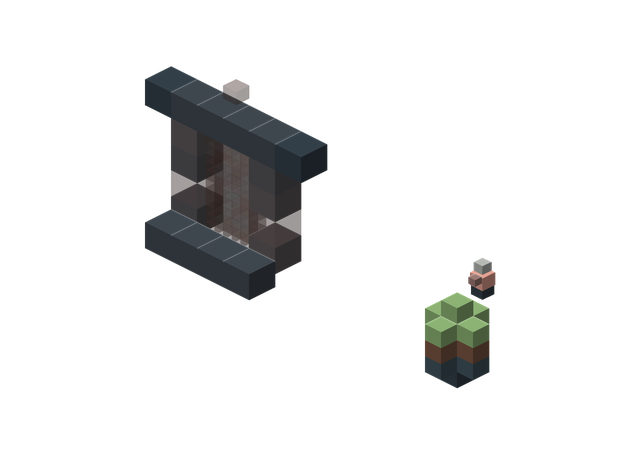
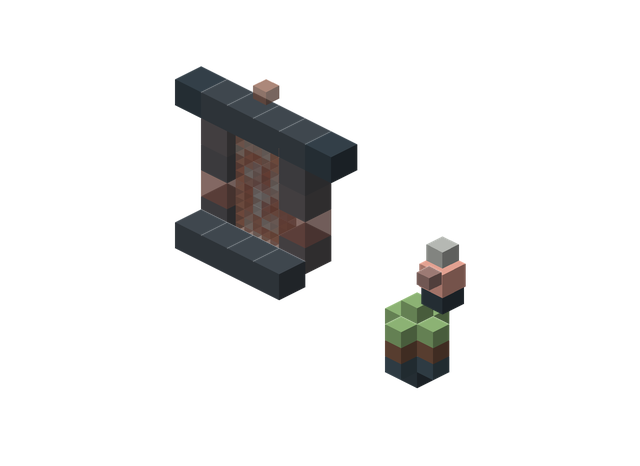
fix(docs): make the 404 page a real full-bleed scene
.mf-404__void was an inset panel scoped to the page's own 32rem column, not
a real backdrop - in light mode a dark slab dropped into a white page, which
read as a failed embed. It is now position: fixed, inset: 0, reaching the
actual viewport edges in either theme.

The art itself was dim by design (gate rim mixed 75% toward void at alpha
110) and the figure was undersized (roughly 10px) and off-centre; the gate
now stays legible (40% toward void, alpha 190) and the figure is scaled up
and pulled closer to the gate so the scene reads as one group instead of two
separate small props.

Changed region(s): [[0.2188, 0.1202, 0.5625, 0.6609], [0.5938, 0.5107, 0.7812, 0.8412]]

diff --git a/docfx/templates/manifold/public/main.css b/docfx/templates/manifold/public/main.css
@@ -1215,15 +1215,17 @@ article > h1:first-child::before {
   overflow: hidden;
 }
 /* Falling out of the world means falling into the void, in either theme: the backdrop stays the
-   dark hero art regardless of data-bs-theme, so this one page doesn't need a light variant. */
+   dark hero art regardless of data-bs-theme, so this one page doesn't need a light variant.
+   position: fixed + inset: 0, not an inset panel scoped to .mf-404's own 32rem column: a "full
+   scene" backdrop has to reach the actual edges of the viewport, not sit as a dark slab dropped
+   into the page (most visible in light mode, where it read as a failed embed). */
 .mf-404__void {
-  position: absolute;
-  inset: -4rem;
+  position: fixed;
+  inset: 0;
   z-index: -1;
   /* bottom 100%: hero-bg fades from a lit top to the void at its base; showing only that base
      keeps this page dark and the text readable, in either site theme. */
   background: var(--mf-void) url('../assets/site/hero-bg.webp') center bottom / cover;
-  border-radius: var(--mf-radius);
 }
 .mf-404__void::after {
   content: '';
@@ -1232,8 +1234,8 @@ article > h1:first-child::before {
   background: rgba(14, 17, 22, 0.35);
 }
 .mf-404__art {
-  width: 320px;
-  height: 233px;
+  width: 420px;
+  height: 306px;
   margin: 0 auto 1.5rem;
   animation: mf-float 7s ease-in-out infinite;
 }

diff --git a/docs/assets/site/generate.py b/docs/assets/site/generate.py
@@ -321,7 +321,7 @@ def divider_frame(t, line):
 # ---------------------------------------------------------------- 404
 
 def closed_gate_voxels(rng):
-    """The gate's stonework, with every glow dimmed to void and its drifting sparks dropped."""
+    """The gate's stonework, dimmed but still legible (not all the way to void), sparks dropped."""
     gate_vox, cells = gate(-1, -1, 0, 2, 4, rng, t=0.0)
     out = []
     for (i, j, k, color, alpha, size, emissive) in gate_vox:
@@ -330,7 +330,7 @@ def closed_gate_voxels(rng):
         elif size < 0.28:
             continue  # drifting sparks: none, the gate is shut
         else:
-            out.append(vox(i, j, k, mix(color, VOID, 0.75), alpha=110, size=size))
+            out.append(vox(i, j, k, mix(color, VOID, 0.4), alpha=190, size=size))
     return out
 
 
@@ -339,11 +339,13 @@ def not_found_scene(t):
     renders large (see NOT_FOUND_SIZE below) rather than at card thumbnail size."""
     scene = Scene(340, 260)
     perch_bob = bob(t, 0.2, 3.0)
-    scene.add(island(np.random.default_rng(283), 1, 1), 250, 175 + perch_bob, 8)
+    scene.add(island(np.random.default_rng(283), 1, 1), 215, 175 + perch_bob, 8)
     scene.add(closed_gate_voxels(np.random.default_rng(282)), 120, 138, 13)
     img = scene.render(bloom=6)
     fig = Scene(340, 260)
-    fig.add(traveller(0, -1.6, 1.3 + bob(t, 0.0, 1.9), size=1.3), 250, 175 + perch_bob, 8)
+    # size=1.3 rendered at roughly 10 page px and sat off to one side; 2.4 reads as a figure at
+    # this scene's own scale, closer to the gate so the composition centres as one group.
+    fig.add(traveller(0, -1.6, 1.3 + bob(t, 0.0, 1.9), size=2.4), 215, 175 + perch_bob, 8)
     img.alpha_composite(fig.render(bloom=0))
     return img
 
